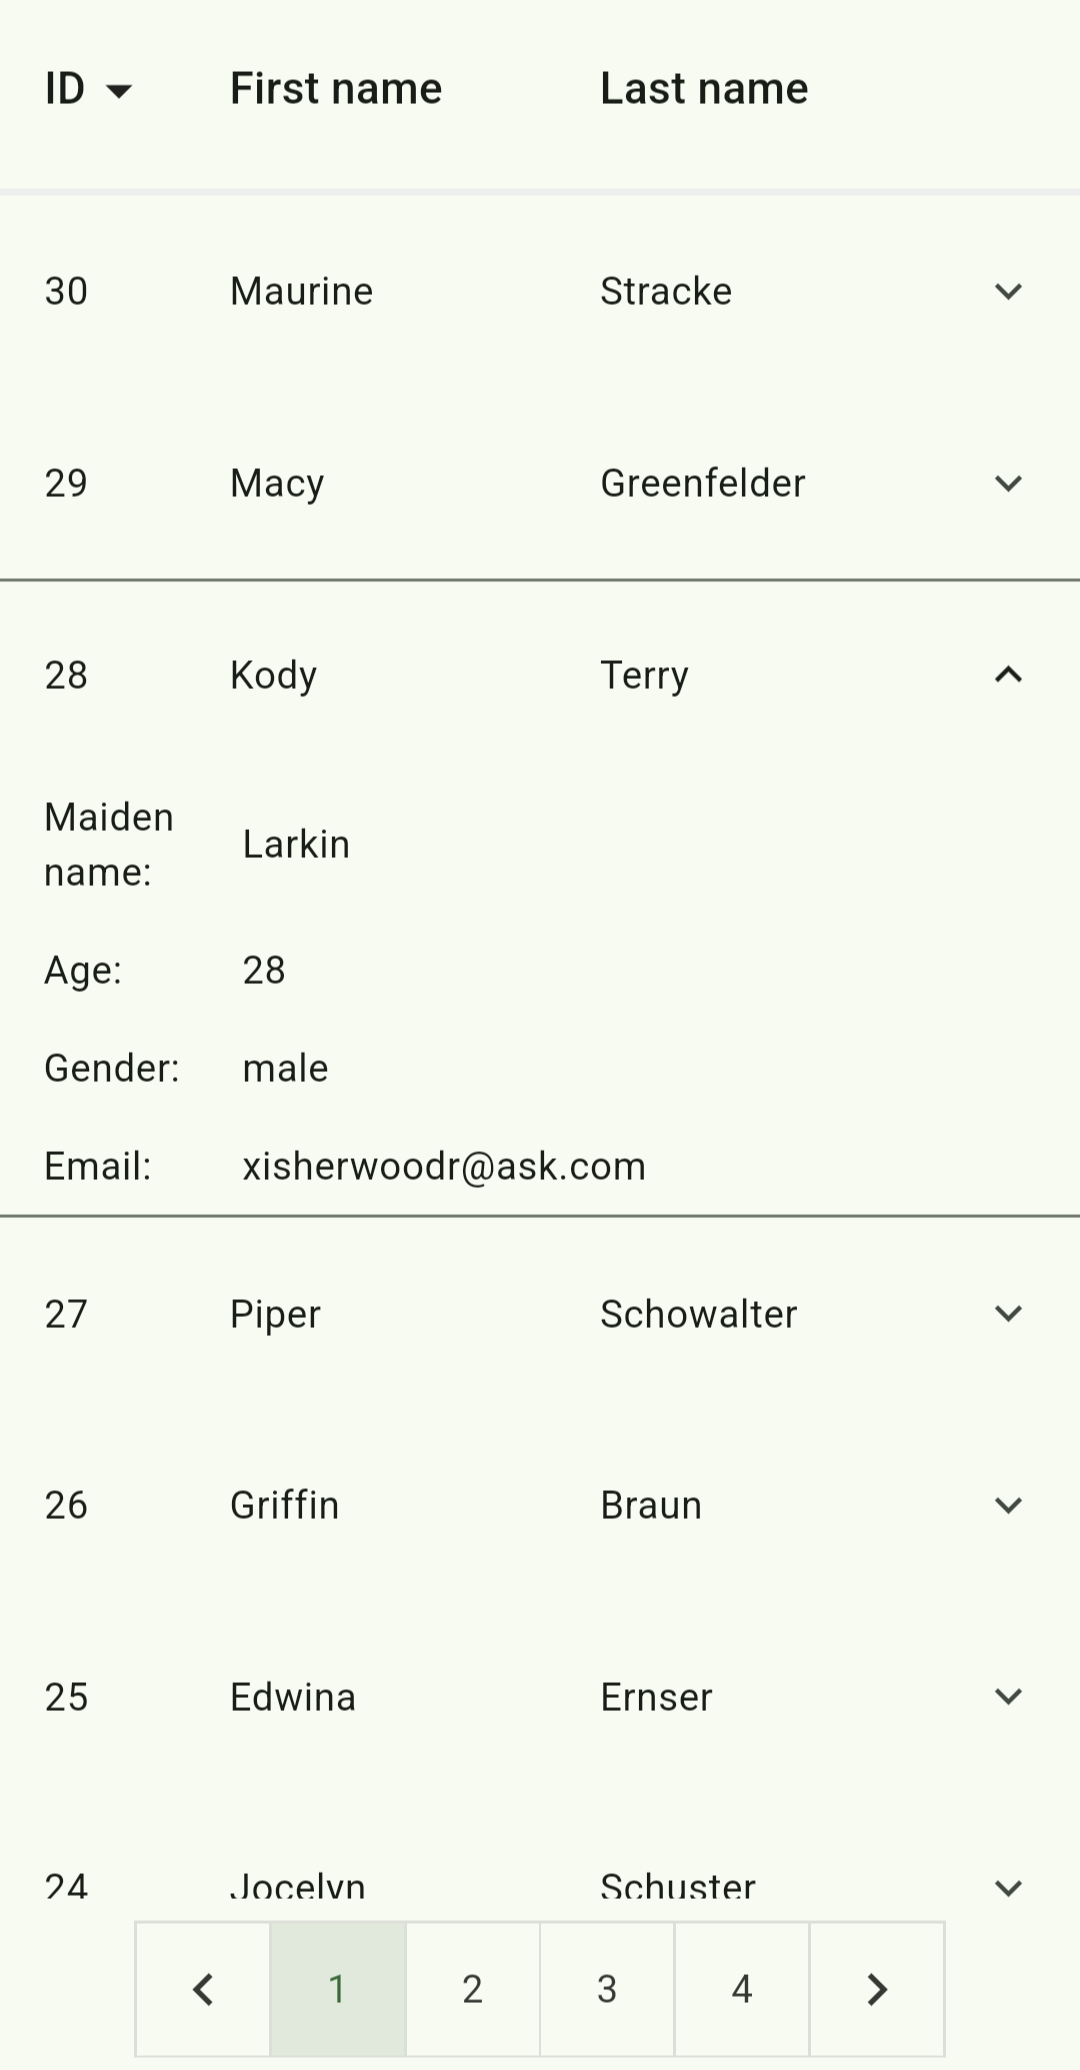
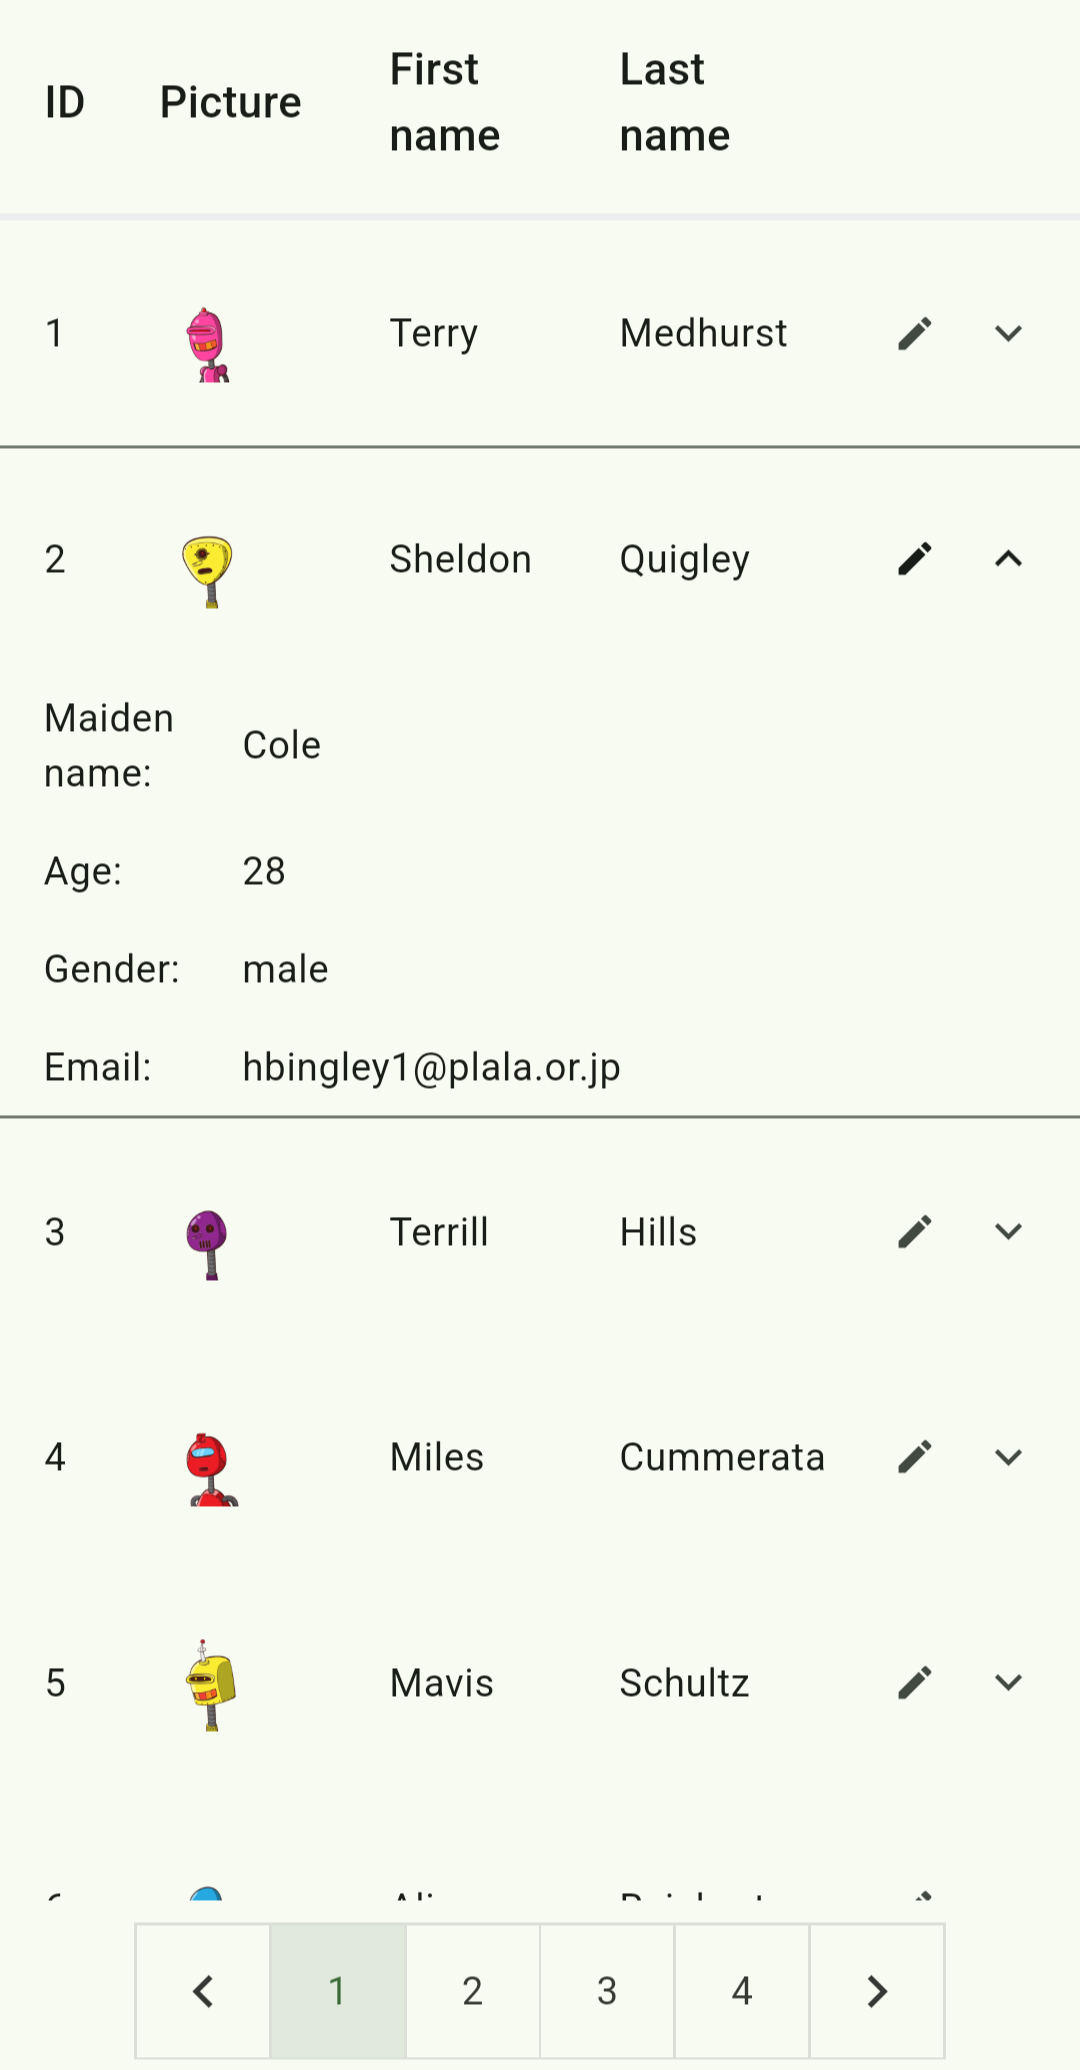
feat: update README and CHANGELOG for version 0.3.0; add image properties and screenshots

diff --git a/example/lib/main.dart b/example/lib/main.dart
@@ -86,7 +86,7 @@ class _MyHomePageState extends State<MyHomePage> {
         isEditable: false,
       ),
       ExpandableColumn<ImageProvider>(
-        columnTitle: "Profile Pic",
+        columnTitle: "Picture",
         columnFlex: 2,
         isEditable: false,
       ),
@@ -107,7 +107,7 @@ class _MyHomePageState extends State<MyHomePage> {
         cells: [
           ExpandableCell<int>(columnTitle: "ID", value: e.id),
           ExpandableCell<ImageProvider>(
-            columnTitle: "Profile Pic",
+            columnTitle: "Picture",
             value: NetworkImage(e.image ?? ""),
           ),
           ExpandableCell<String>(columnTitle: "First name", value: e.firstName),

diff --git a/.github/prompts/sync-readme-properties.prompt.md b/.github/prompts/sync-readme-properties.prompt.md
@@ -1,0 +1,25 @@
+agent: "agent"
+description: "Sync README property tables with the actual code — run this on every new release"
+
+---
+
+## Task
+
+Compare the property documentation in `README.md` against the actual Dart source code and add any missing properties. Run this every time a new version is released.
+
+## Steps
+
+1. Read the current `README.md` in full.
+2. Read `lib/src/expandable_datatable.dart` to get all constructor parameters of `ExpandableDataTable`.
+3. Read `lib/src/utility/expandable_theme.dart` to get all fields of `ExpandableThemeData`.
+4. For each class, diff the properties found in code against the properties documented in the README tables.
+5. For every property present in code but **missing** from the README, add a new row to the correct table section.
+
+## Rules
+
+- **Do not change or remove any existing rows.**
+- **Do not add default values** to descriptions — keep them concise and behavior-focused.
+- Match the column widths and formatting style of the surrounding table rows exactly.
+- Place each new row in the correct existing section (Header, Rows, Expansion panel & icons, Images, Edit Dialog, Pagination). If a property does not fit any existing section, append a new section in the same style at the end of the `ExpandableThemeData` tables.
+- Skip deprecated properties (`@Deprecated`).
+- Descriptions should match the tone and length of the existing rows — short, imperative, one line.

diff --git a/README.md b/README.md
@@ -251,6 +251,13 @@ Properties are grouped by the part of the table they affect.
 | `editCancelButtonTextStyle` | Text style for the CANCEL button.                                                   |
 | `editInputDecoration`       | Base `InputDecoration` for all text fields. Per-column `hintText` takes precedence. |
 
+#### **Images**
+
+| Property                     | Description                                                   |
+| ---------------------------- | ------------------------------------------------------------- |
+| `imageColumnHeightTitle`     | Height of image cells in the header row.                      |
+| `imageColumnHeightExpansion` | Height of image cells in the expansion panel and edit dialog. |
+
 #### **Pagination**
 
 | Property                        | Description                                            |

diff --git a/CHANGELOG.md b/CHANGELOG.md
@@ -1,4 +1,11 @@
-# 0.2.4 - 03/03/2026
+# 0.3.0 - 07/03/2026
+
+- Added `ImageProvider` as a new `ExpandableColumn` type to render images as cells.
+- Added image size properties to `ExpandableTheme`.
+- Added `isSortable` property to `ExpandableColumn`.
+- Added image screenshots to README.
+
+## 0.2.4 - 03/03/2026
 
 - Added `expansionIconAffinity` property for changing expansion icon place.
 - Added Codecov coverage analyzer.
